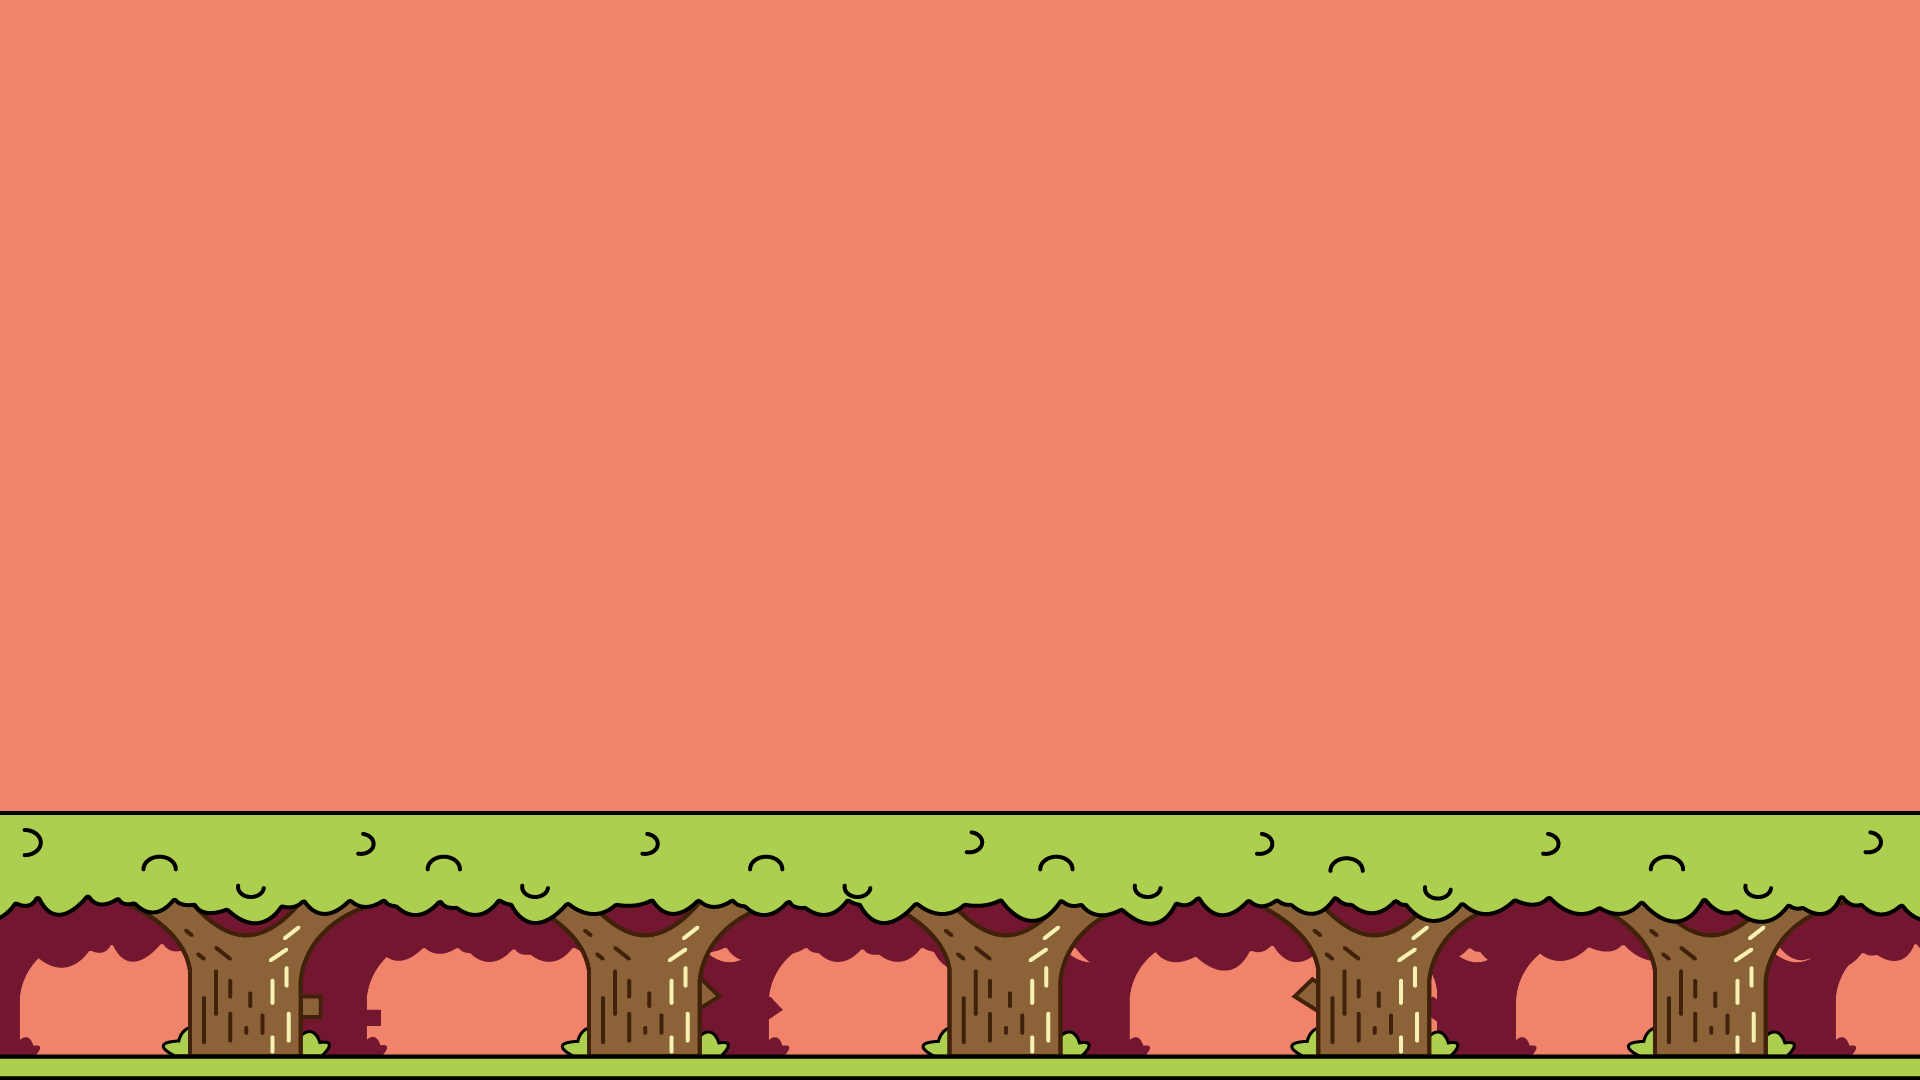
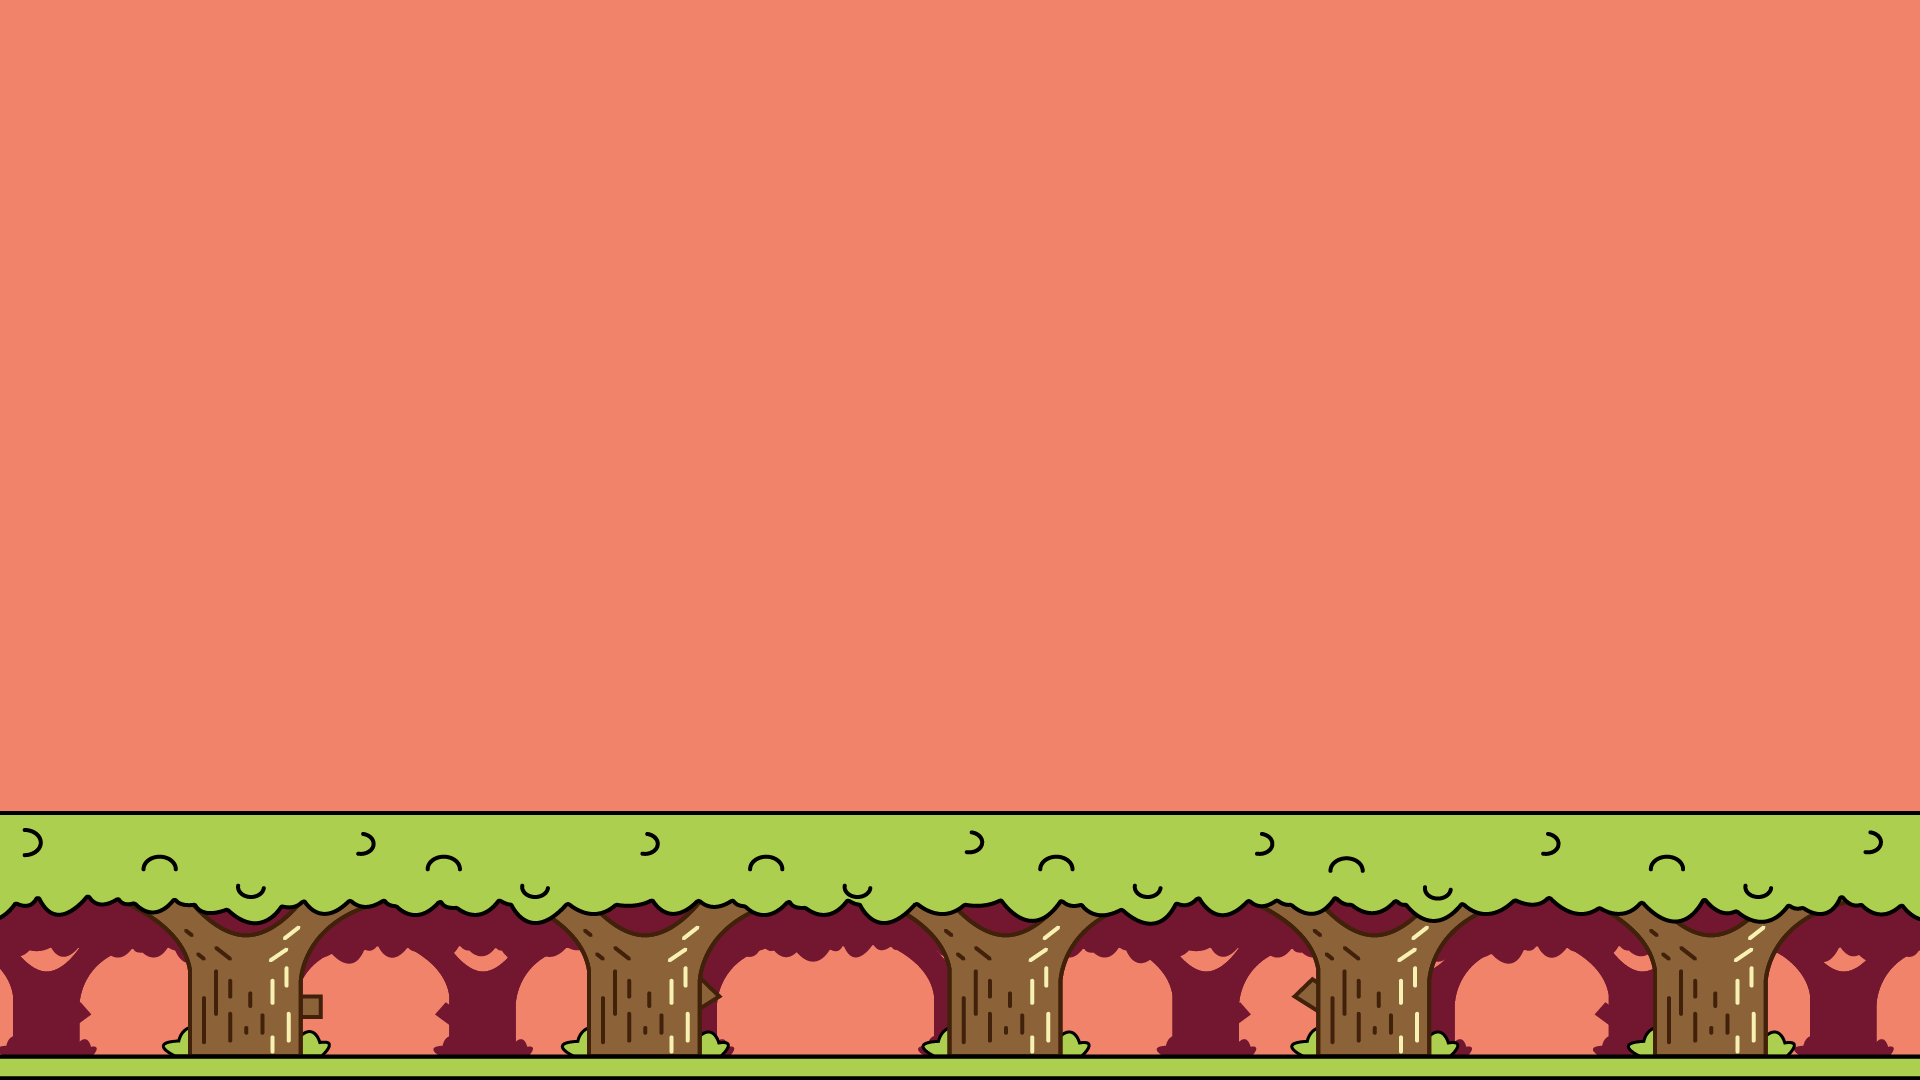
big update

diff --git a/scripts.js b/scripts.js
@@ -1,24 +1,26 @@
 'use strict'
 
-
-
-var blocklist = [];
-var count = 0;
-var n = 8;
+var blocklist = [];         // list of blocks on screen
+var count = 0;              // number of blocks has appeared
+var n = 8;                  // max number of blocks on screen
 var subcount = 0;
-var correctword = 0;
-var incorrectword = 0;
-var score = 0;
-var over = true;
-var inputupdate;
-var checkstate;
-var cr;
-var mainbuttap = false;
-var opbuttap = false;
-var smbuttap = false;
-var bgnum = 1;
-var soundon = true;
+var correctword = 0;        // number of words typed correctly
+var incorrectword = 0;      // _____________________ incorrectly
+var score = 0;              
+var over = true;            // check whether the game is over
+var inputupdate;            // interval to check input word
+var checkstate;             // interval to check game state (lost?)
+var cr;                     // interval to create blocks
+var mainbuttap = false;     // check click events of buttons on main screen
+var opbuttap = false;       // check click events of buttons on OPTION screen
+var smbuttap = false;       // check click events of buttons on OPTION/SOUND screen
+var bgnum = 1;              // background
+var soundon = true;         
 var musicon = true;
+
+/* main functions */
+
+// choose language (English/ Vietnamese)
 
 function chooselang() {
     document.getElementById("playButton").style.display = "none";
@@ -27,7 +29,12 @@ function chooselang() {
     document.getElementById("chooselanguage").style.display = "block";
 }
 
+// main function
+
 function play() {
+
+// reset
+
     blocklist = [];
     count = 0;
     n = 8;
@@ -43,7 +50,9 @@ function play() {
     $('#correctnum').text("Words: 0");
     $('#incorrectnum').text("Mistakes: 0");
     $('.block').remove();
-    var plbtn = document.getElementById("playButton");
+
+// choose language and start
+
     var plgrd = document.getElementById("playground");
     var scbar = document.getElementById("scorebar");
     document.getElementById("chooselanguage").style.display = "none";
@@ -53,6 +62,8 @@ function play() {
     document.getElementById("typetext").focus();
     start();
 }
+
+// get random color of blocks and random words
 
 function randomCaW() {
     var colornum = Math.floor(Math.random() * 7.9);
@@ -75,8 +86,18 @@ function randomCaW() {
     return ans;
 }
 
+// start game
+
 function start() {
-    createblock(8);
+    createblock(8);            
+    
+// first create 8 blocks,
+// then start the interval to check input words.
+// If player press spacebar, get the input word.
+// If the input word match any of words in blocklist, remove block and the word in blocklist,
+// add to score the length of the right word.
+// If it does not match any words, decrease the score by half of the length of the input word.
+
     inputupdate = setInterval(function() {
         var text = document.getElementById("typetext");
         var check;
@@ -99,6 +120,9 @@ function start() {
                 incorrectword ++; 
                 score -= Math.floor(check.length/2);
             }
+
+// display the number of right words and wrong words
+
             $('#correct').text("Words: " + String(correctword));
             $('#incorrect').text("Mistakes: " + String(incorrectword)); 
             $('#correctnum').text("Words: " + String(correctword));
@@ -106,6 +130,9 @@ function start() {
             text.value = "";
         }
     }, 1)
+
+// start the interval to check whether the game is over
+// if yes, display the board to show the result, button to play again and button to be back to main menu
 
     checkstate = setInterval(function() {
         var bl = document.getElementsByClassName("block");
@@ -140,6 +167,8 @@ function start() {
     }, 1)
 }
 
+// function to create a block with random color and random word
+
 function createbl() {
     var caw = randomCaW();
     var block = document.createElement("div");
@@ -157,6 +186,9 @@ function createbl() {
     plg.appendChild(block);
 }
 
+// function to start an interval to check the number of block on screen
+// if there are less than 8 blocks, create until there are 8
+
 function createblock(x) {
     var subtimer = 0;
     cr = setInterval(function() {
@@ -170,7 +202,6 @@ function createblock(x) {
         }
         else {
             var bl = document.getElementsByClassName('block');
-            //$('.block').css('animation-play-state', 'paused');
             bl[0].remove();
             blocklist.shift();
             subcount --;
@@ -178,6 +209,8 @@ function createblock(x) {
         subtimer ++;
     }, 10);
 }
+
+// if you press the main menu button when the game is over
 
 function mainmenu() {
     document.getElementById("playButton").style.display = "block";
@@ -188,6 +221,7 @@ function mainmenu() {
 }
 
 /************************************************************************************/
+/* main screen */
 
 function guide() {
     if (!mainbuttap) {
@@ -237,12 +271,12 @@ function changebackground() {
 function choosebg(x) {
     if (x == 1) {
         bgnum ++;
-        if (bgnum > 2) bgnum = 1;
+        if (bgnum > 3) bgnum = 1;
         document.body.background = ".\\Resources\\Background\\" + String(bgnum) + ".png"
     }
     if (x == -1) {
         bgnum --;
-        if (bgnum < 1) bgnum = 2;
+        if (bgnum < 1) bgnum = 3;
         document.body.background = ".\\Resources\\Background\\" + String(bgnum) + ".png"
     }
 }
@@ -277,5 +311,24 @@ function sandm(x) {
 }
 
 /************************************************************************************/
+/* sound and music */
 
+var soundcheck = setInterval(function() {
+    $('.mainbutton').hover(function() {
+        $('#buttonhover')[0].play();
+    }, function() {
+        $('#buttonhover')[0].pause();
+    });
+    $('.optionbutton').hover(function() {
+        $('#buttonhover')[0].play();
+    }, function() {
+        $('#buttonhover')[0].pause();
+    });
 
+    $('.mainbutton').click(function() {
+        $('#buttonclick')[0].play();
+    });
+    $('.optionbutton').click(function() {
+        $('#buttonclick')[0].play();
+    });
+}, 1);

diff --git a/index.html b/index.html
@@ -10,16 +10,24 @@
     <script type="text/javascript" src="rdword.js"></script>
 	<script type="text/javascript" src="scripts.js"></script>
 </head>
-<body background=".\Resources\Background\1.png" style="background-size: 100vw 100vh;">
-    <audio id="blocksound" preload="metadata">
-        <source src="Resources/Sound/gunshot.mp3"></source>
-    </audio>
+<body background=".\Resources\Background\1.png"style="background-size: 100vw 100vh;">
+    <div id="audio"></div>
+        <audio id="blocksound" preload="metadata">
+            <source src="Resources/Sound/gunshot.mp3"></source>
+        </audio>
+        <audio id="buttonhover" preload="metadata">
+            <source src="Resources/Sound/button.mp3"></source>
+        </audio>
+        <audio id="buttonclick" preload="metadata">
+            <source src="Resources/Sound/button1.mp3"></source>
+        </audio>
+    </div>
     <div id="mainground">
         <div id="playButton" class="mainbutton" style="top: 25%;" onclick="chooselang();">PLAY</div>
         <div id="guideButton" class="mainbutton" style="top: 40%;" onclick="guide();">GUIDE</div>
         <div id="options">
             <div id="optionButton" class="mainbutton" style="top: 55%;" onclick="option();">OPTION</div>
-            <div id="changebackground" class="optionbutton" style="display: none;" onclick="changebackground();">BACKGROUND</div>
+            <div id="changebackground" class="optionbutton" style="display: none;" onclick="changebackground();">THEME</div>
             <div id="next" class="optionbutton" style="display: none" onclick="choosebg(1);">NEXT</div>
             <div id="previous" class="optionbutton" style="display: none" onclick="choosebg(-1);">PREVIOUS</div>
             <div id="sound" class="optionbutton" style="display:none" onclick="sound();">SOUND</div>

diff --git a/style.css b/style.css
@@ -58,16 +58,16 @@
 }
 
 #changebackground {
-    font-size: 24px;
-    padding-top: 20px;
+    font-size: 32px;
+    padding-top: 12px;
     top: 42%;
     opacity: 0;
     animation: display 0.5s 0.5s both;
 }
 
 #sound {
-    font-size: 24px;
-    padding-top: 20px;
+    font-size: 32px;
+    padding-top: 12px;
     top: 55%;
     opacity: 0;
     animation: display 0.5s 0.5s both;
@@ -80,8 +80,9 @@
 }
 
 #next {
-    font-size: 24px;
-    width: 200px;
+    font-size: 28px;
+    padding-top: 12px;
+    width: 220px;
     top: 42%;
     left: calc(50% + 280px);
     opacity: 1.0;
@@ -89,8 +90,9 @@
 }
 
 #previous {
-    font-size: 24px;
-    width: 200px;
+    font-size: 28px;
+    padding-top: 12px;
+    width: 220px;
     top: 42%;
     left: calc(50% - 280px);
     opacity: 1.0;
@@ -98,8 +100,9 @@
 }
 
 #soundbut {
-    font-size: 24px;
-    width: 200px;
+    font-size: 28px;
+    padding-top: 12px;
+    width: 220px;
     top: 55%;
     left: calc(50% + 280px);
     opacity: 1.0;
@@ -107,8 +110,9 @@
 }
 
 #musicbut {
-    font-size: 24px;
-    width: 200px;
+    font-size: 28px;
+    padding-top: 12px;
+    width: 220px;
     top: 55%;
     left: calc(50% - 280px);
     opacity: 1.0;
@@ -336,7 +340,6 @@
     background: #2DA663;
     transition: 0.3s;
 }
-
 
 @keyframes fall {
     0% {

diff --git a/README.md b/README.md
@@ -1,2 +1,4 @@
 # FallingWords
  
+ Hello.
+ Bye.
